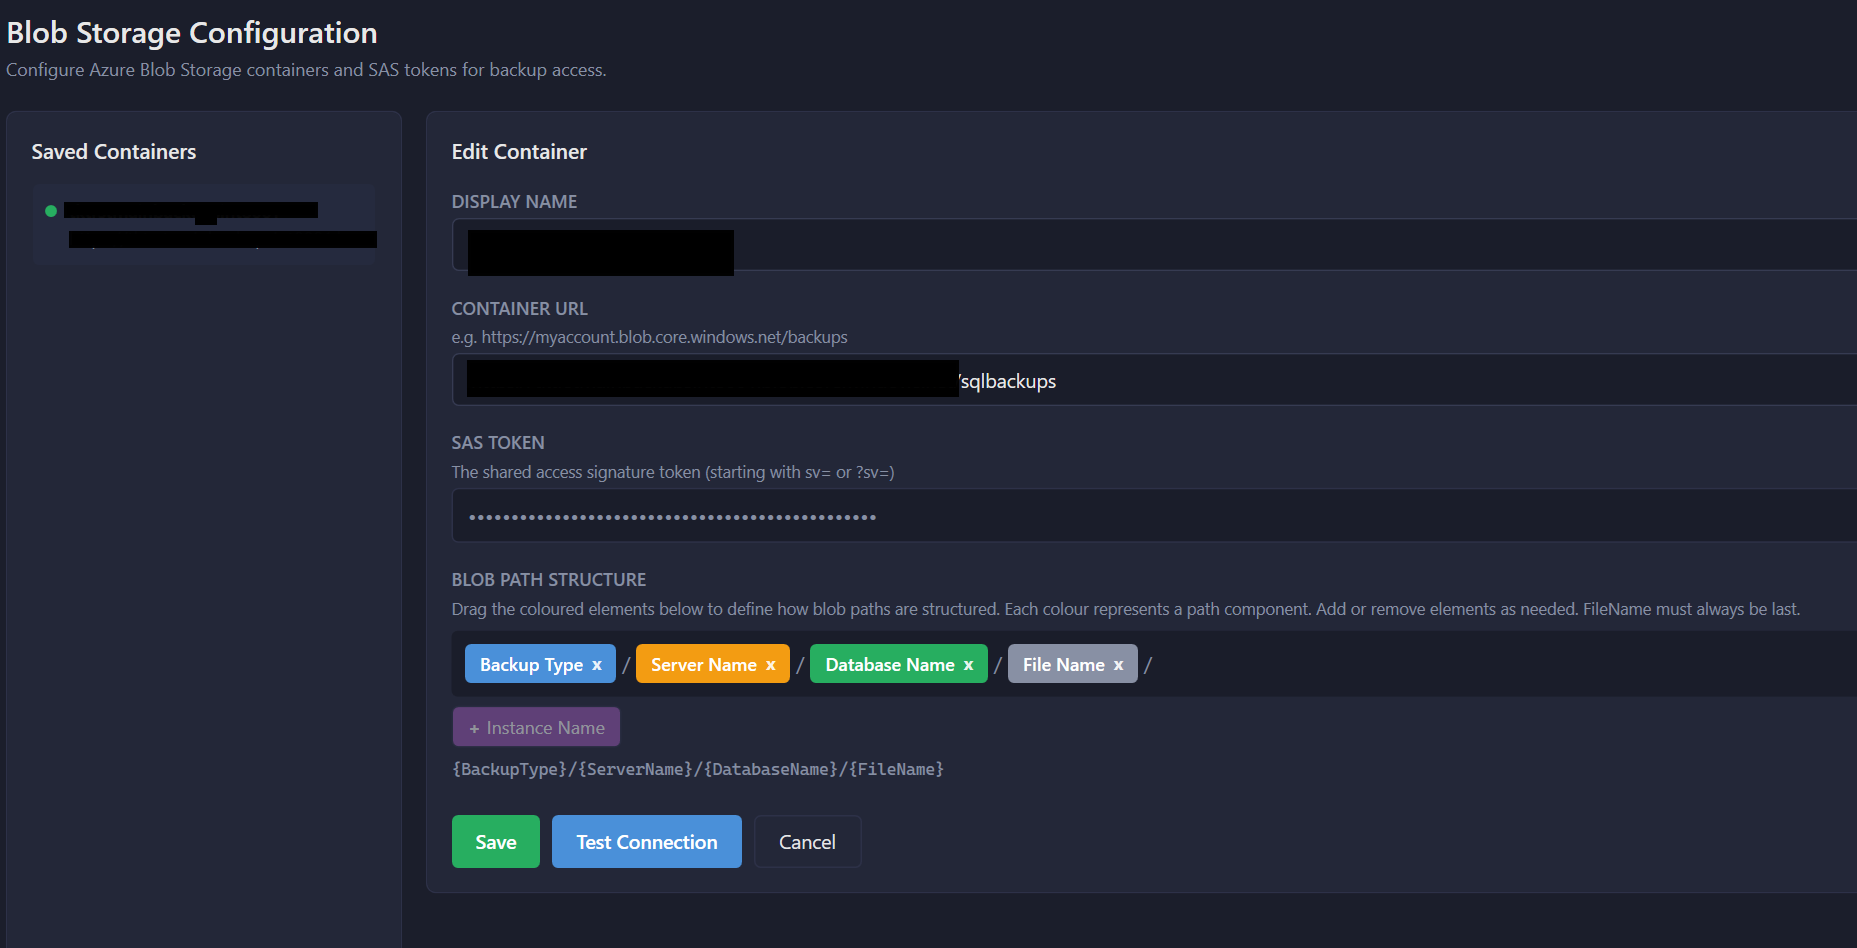
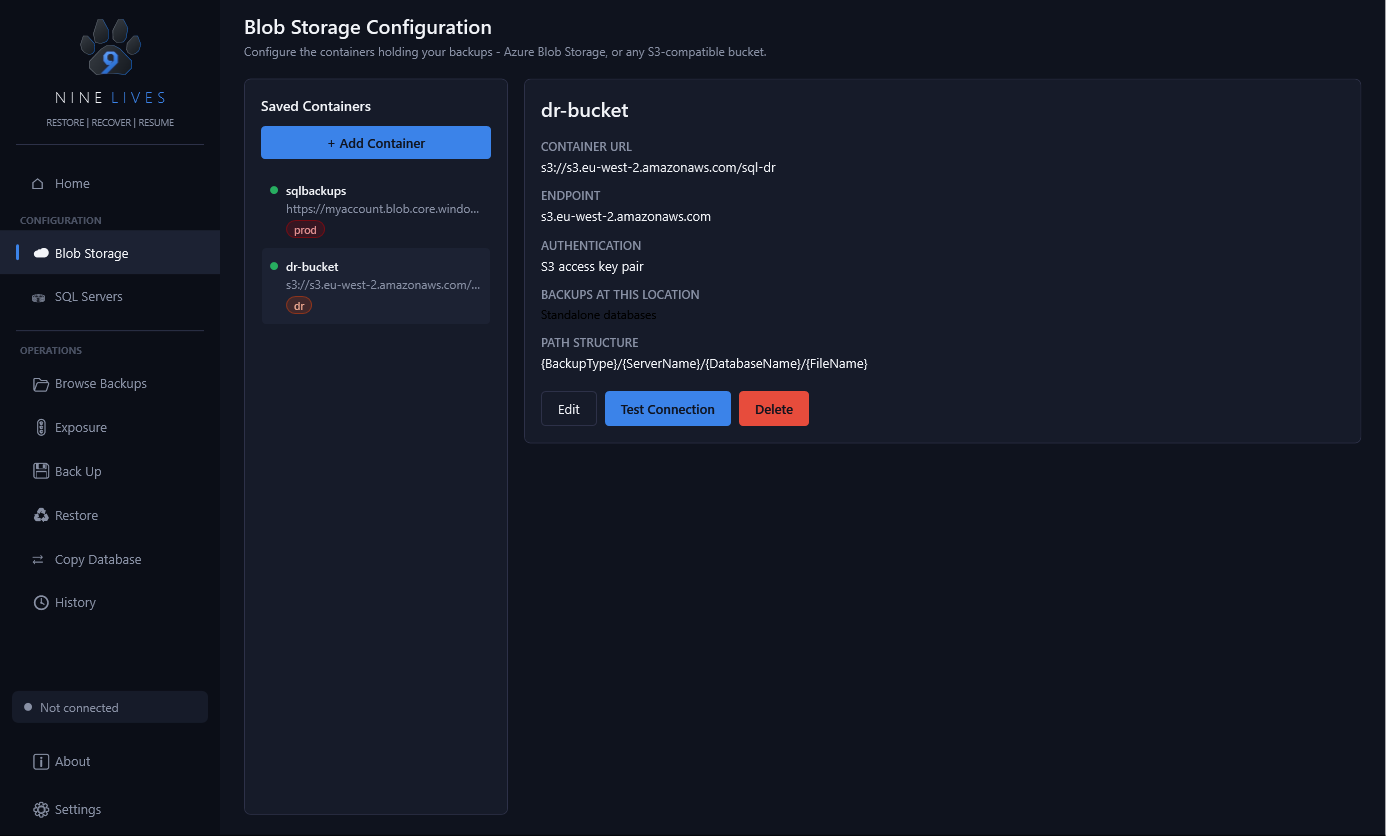
Reshoot the two screenshots the README leads with (#366) (#385)
Every image in docs/screenshots was taken at v1.0.0 and shows an
application that no longer exists. The hero at the top of the README
has a five-item sidebar; today's has ten, and the missing five
include everything the README now leads with - Back Up, Copy
Database, Exposure, History, and Home itself.

main-interface is now the Home screen, which is both the new landing
page and the most honest single view of what the app is: the whole
sidebar down the left, and cards naming every screen behind it.

blob-config now has a bucket selected rather than an empty details
pane, so it shows the S3 work as well as the container list -
ENDPOINT rather than STORAGE ACCOUNT, an access key pair rather than
a SAS, and both a container and a bucket side by side with their
tags. Its caption said "Azure Blob Storage containers with SAS
tokens", which stopped being the whole truth this week.

The estate in both is invented - SRV01, sqlbackups, a made-up
storage account and a made-up bucket - because these go in a public
README.

Taken by rendering MainWindow through the WPF test fixture, then
cropping the status bar: under a test host AppVersion reads the
runner's version rather than the app's, and a screenshot claiming
v18.8.1 would be worse than no screenshot. That is an artefact of
how they were taken, not something a user sees - the published exe
resolves its own version correctly.

The other four images are still from v1.0.0. They show inner screens
[…]

diff --git a/README.md b/README.md
@@ -185,7 +185,7 @@ Two verbs execute, and they are built out of refusals: `restore` and `rehearse` 
 ### Blob Storage Configuration
 ![Screenshot - Blob Configuration](docs/screenshots/blob-config.png)
 
-*Configure Azure Blob Storage containers with SAS tokens. Drag-and-drop path pattern builder for custom folder structures.*
+*Configure the containers holding your backups - an Azure Blob container with a SAS token or an Entra sign-in, or an S3-compatible bucket with an access key pair. Drag-and-drop path pattern builder for custom folder structures.*
 
 ### Browse Backups
 ![Screenshot - Browse Backups](docs/screenshots/browse-backups.png)
